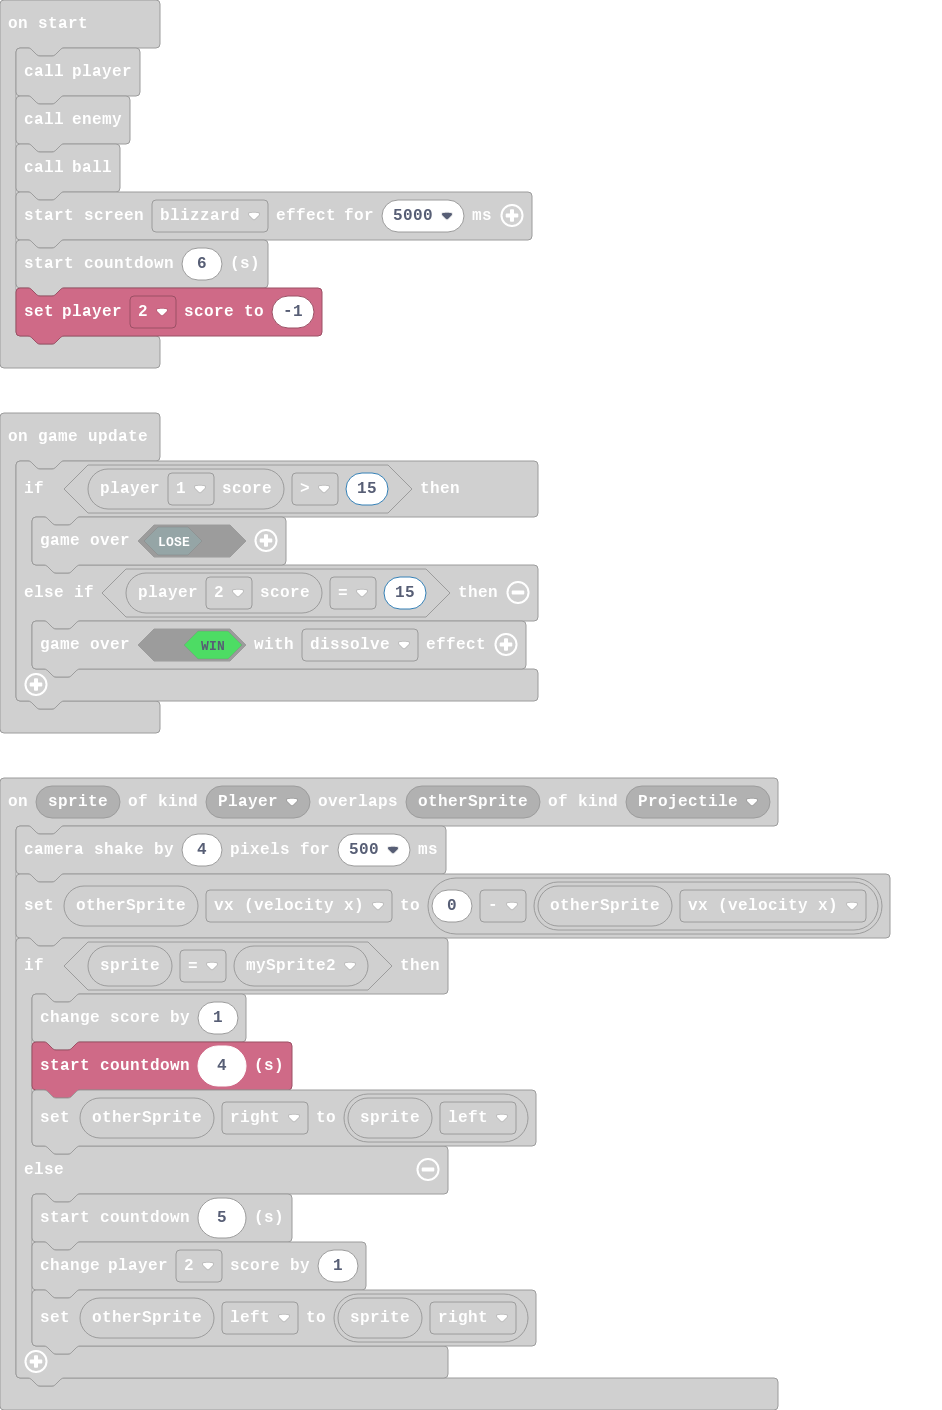
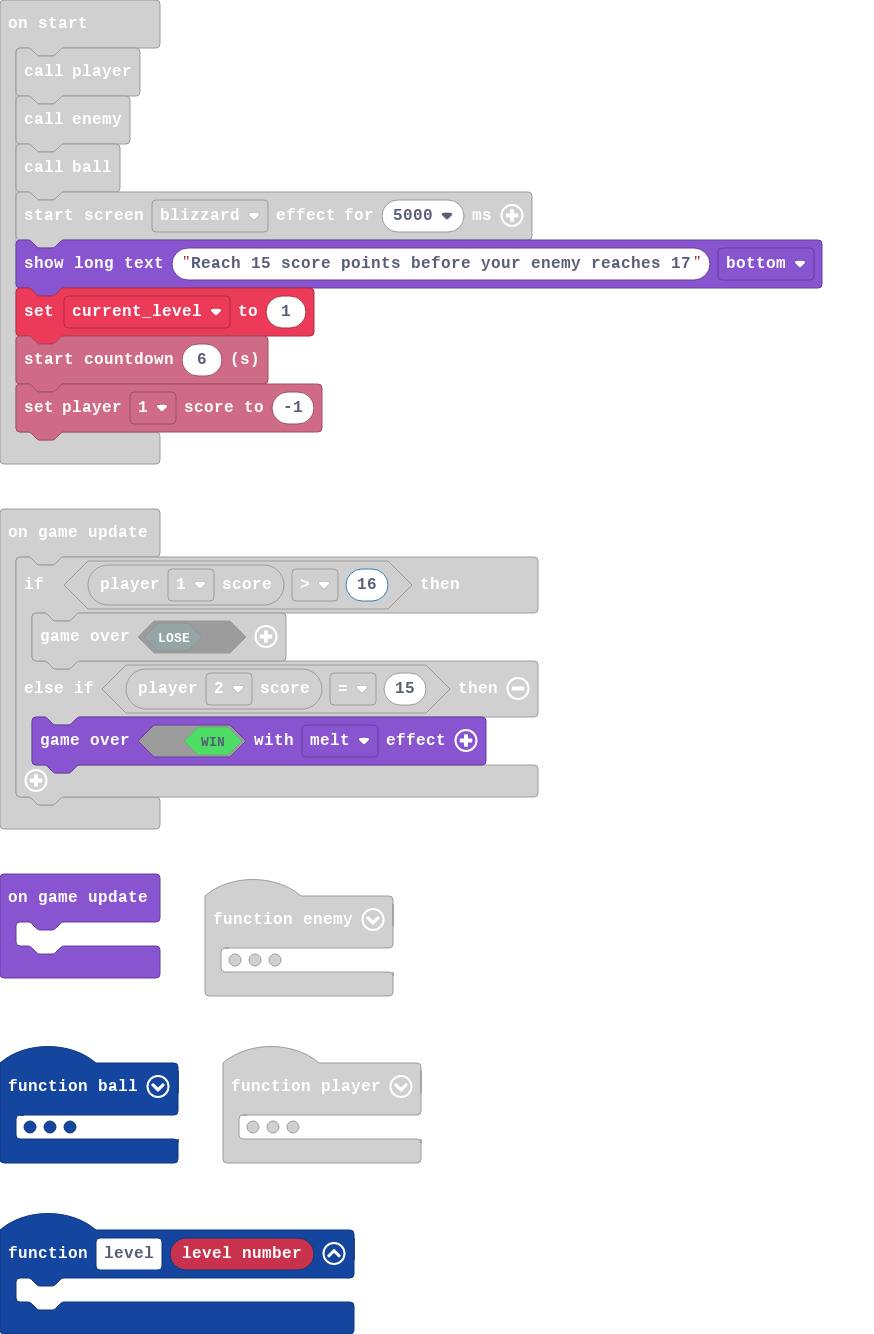
Update main.blocks, main.ts

diff --git a/main.ts b/main.ts
@@ -1,3 +1,6 @@
+function level (level_number: Sprite) {
+	
+}
 info.onCountdownEnd(function () {
     game.reset()
 })
@@ -142,7 +145,6 @@ function enemy () {
         8888............
         8888............
         `, SpriteKind.Player)
-    controller.player2.moveSprite(mySprite2)
     mySprite2.setStayInScreen(true)
     mySprite2.x = 160
 }
@@ -181,7 +183,7 @@ function player2 () {
         2222............
         2222............
         `, SpriteKind.Player)
-    controller.moveSprite(mySprite, 70, 70)
+    controller.moveSprite(mySprite, controller.player2.dy(), 77)
     mySprite.setStayInScreen(true)
     mySprite.x = 20
 }
@@ -214,8 +216,10 @@ player2()
 enemy()
 ball()
 effects.blizzard.startScreenEffect()
+game.showLongText("Reach 15 score points before your enemy reaches 17", DialogLayout.Bottom)
+let current_level = 1
 info.startCountdown(6)
-info.player2.setScore(-1)
+info.player1.setScore(-1)
 game.onUpdate(function () {
     if (projectile.x > scene.screenWidth() / 2) {
         if (projectile.y > mySprite2.y) {
@@ -226,11 +230,14 @@ game.onUpdate(function () {
     }
 })
 game.onUpdate(function () {
-    if (info.player1.score() > 15) {
+    if (info.player1.score() > 16) {
         game.over(false)
     } else if (info.player2.score() == 15) {
-        game.over(true, effects.dissolve)
+        game.over(true, effects.melt)
     }
+})
+game.onUpdate(function () {
+	
 })
 forever(function () {
     theme_music()
